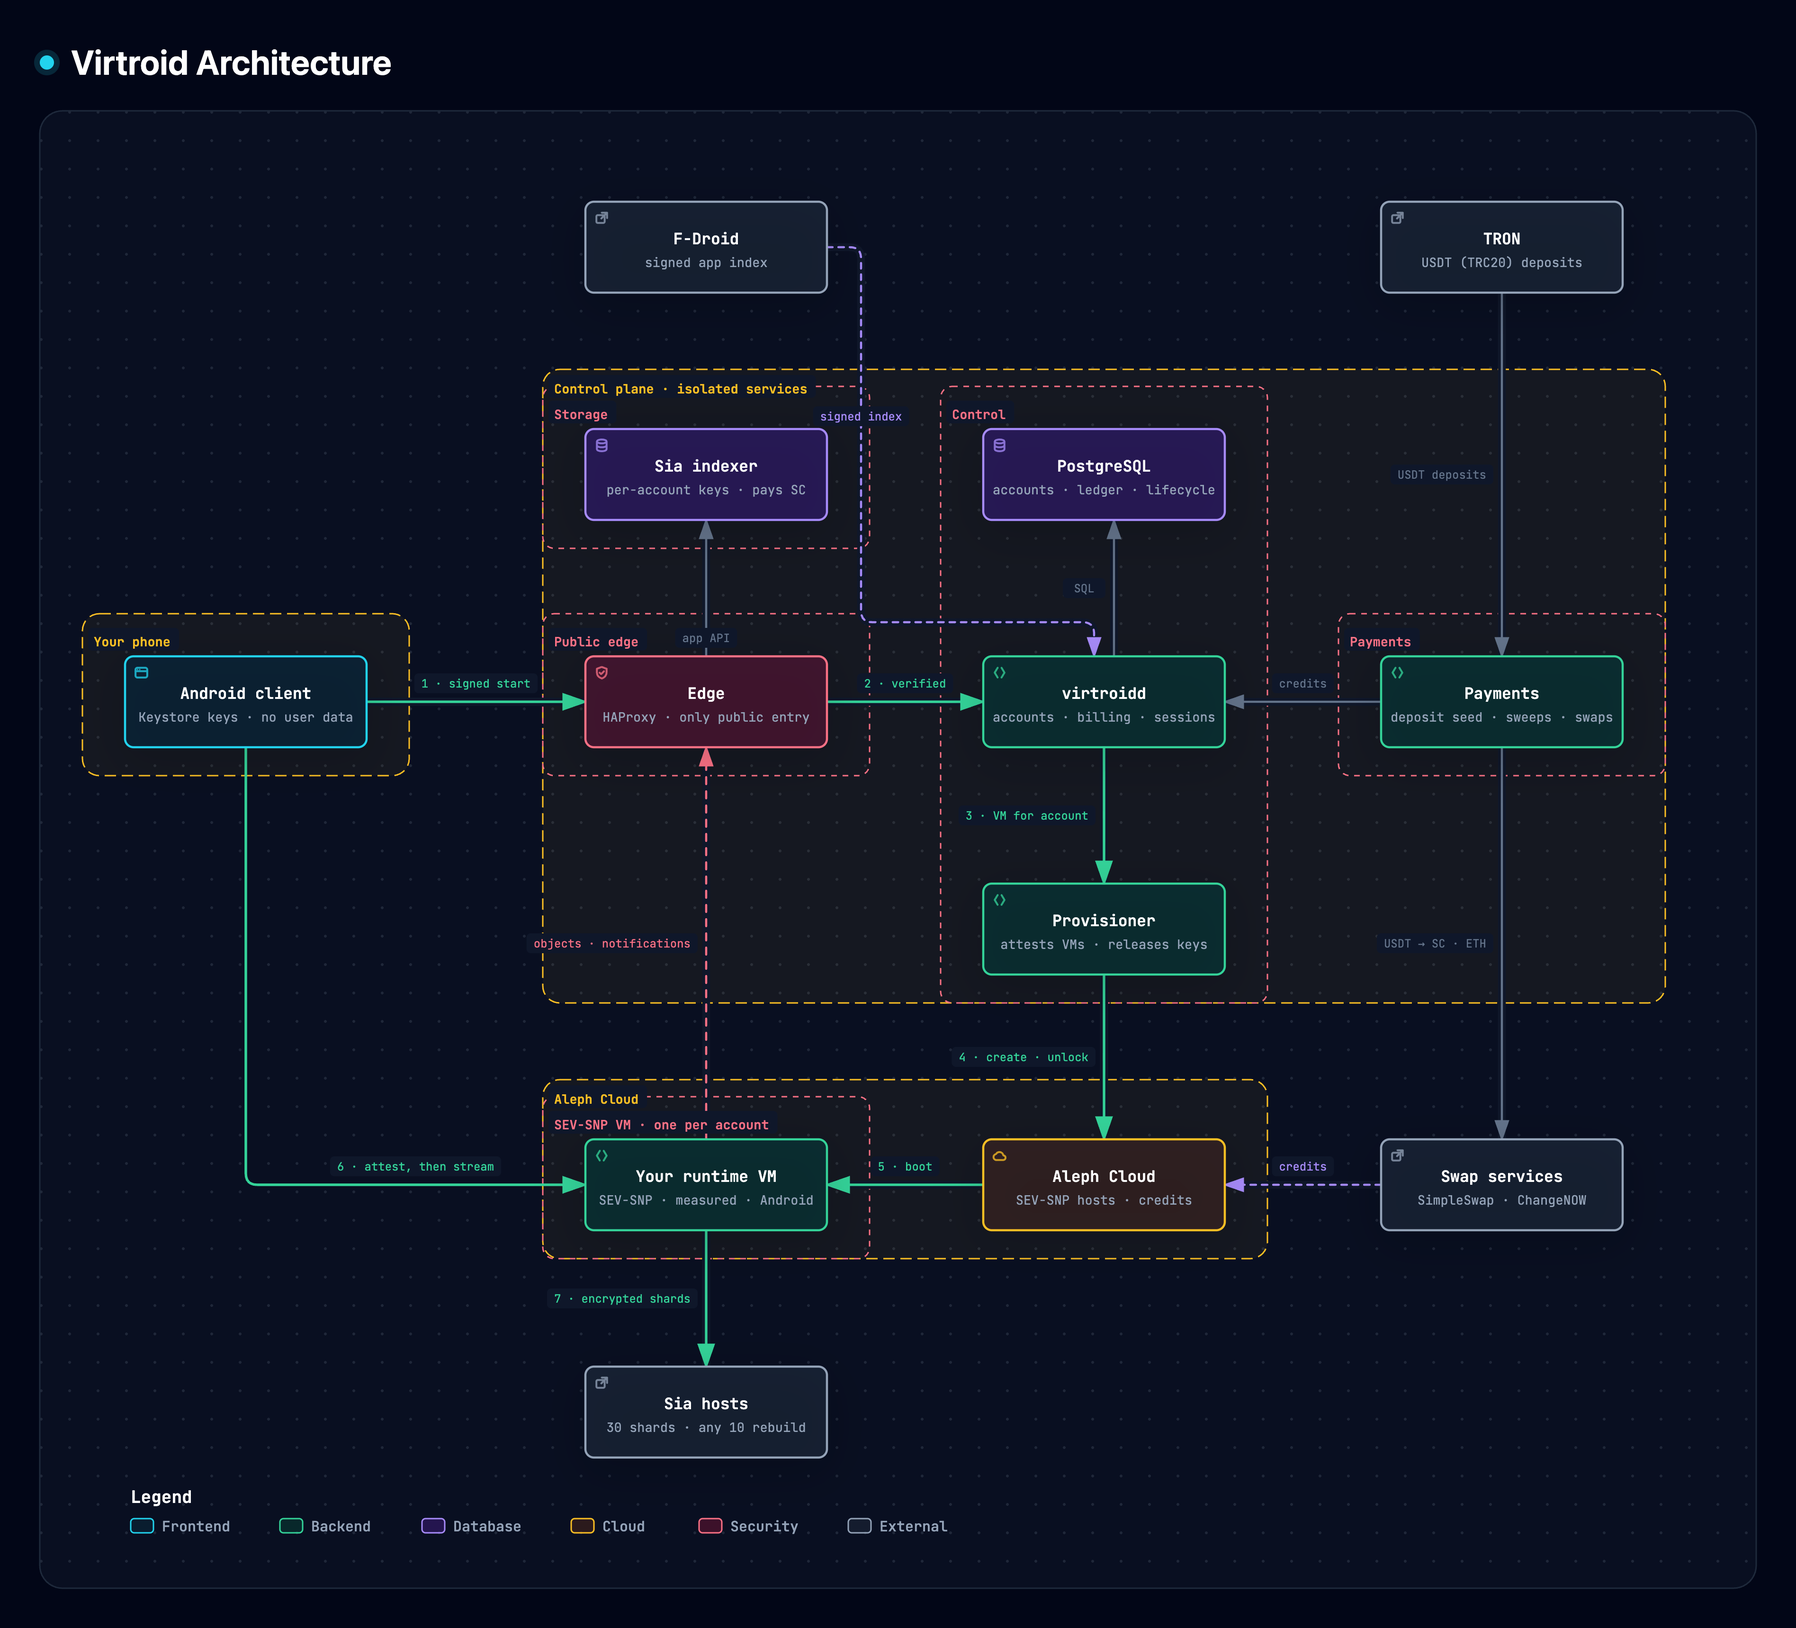
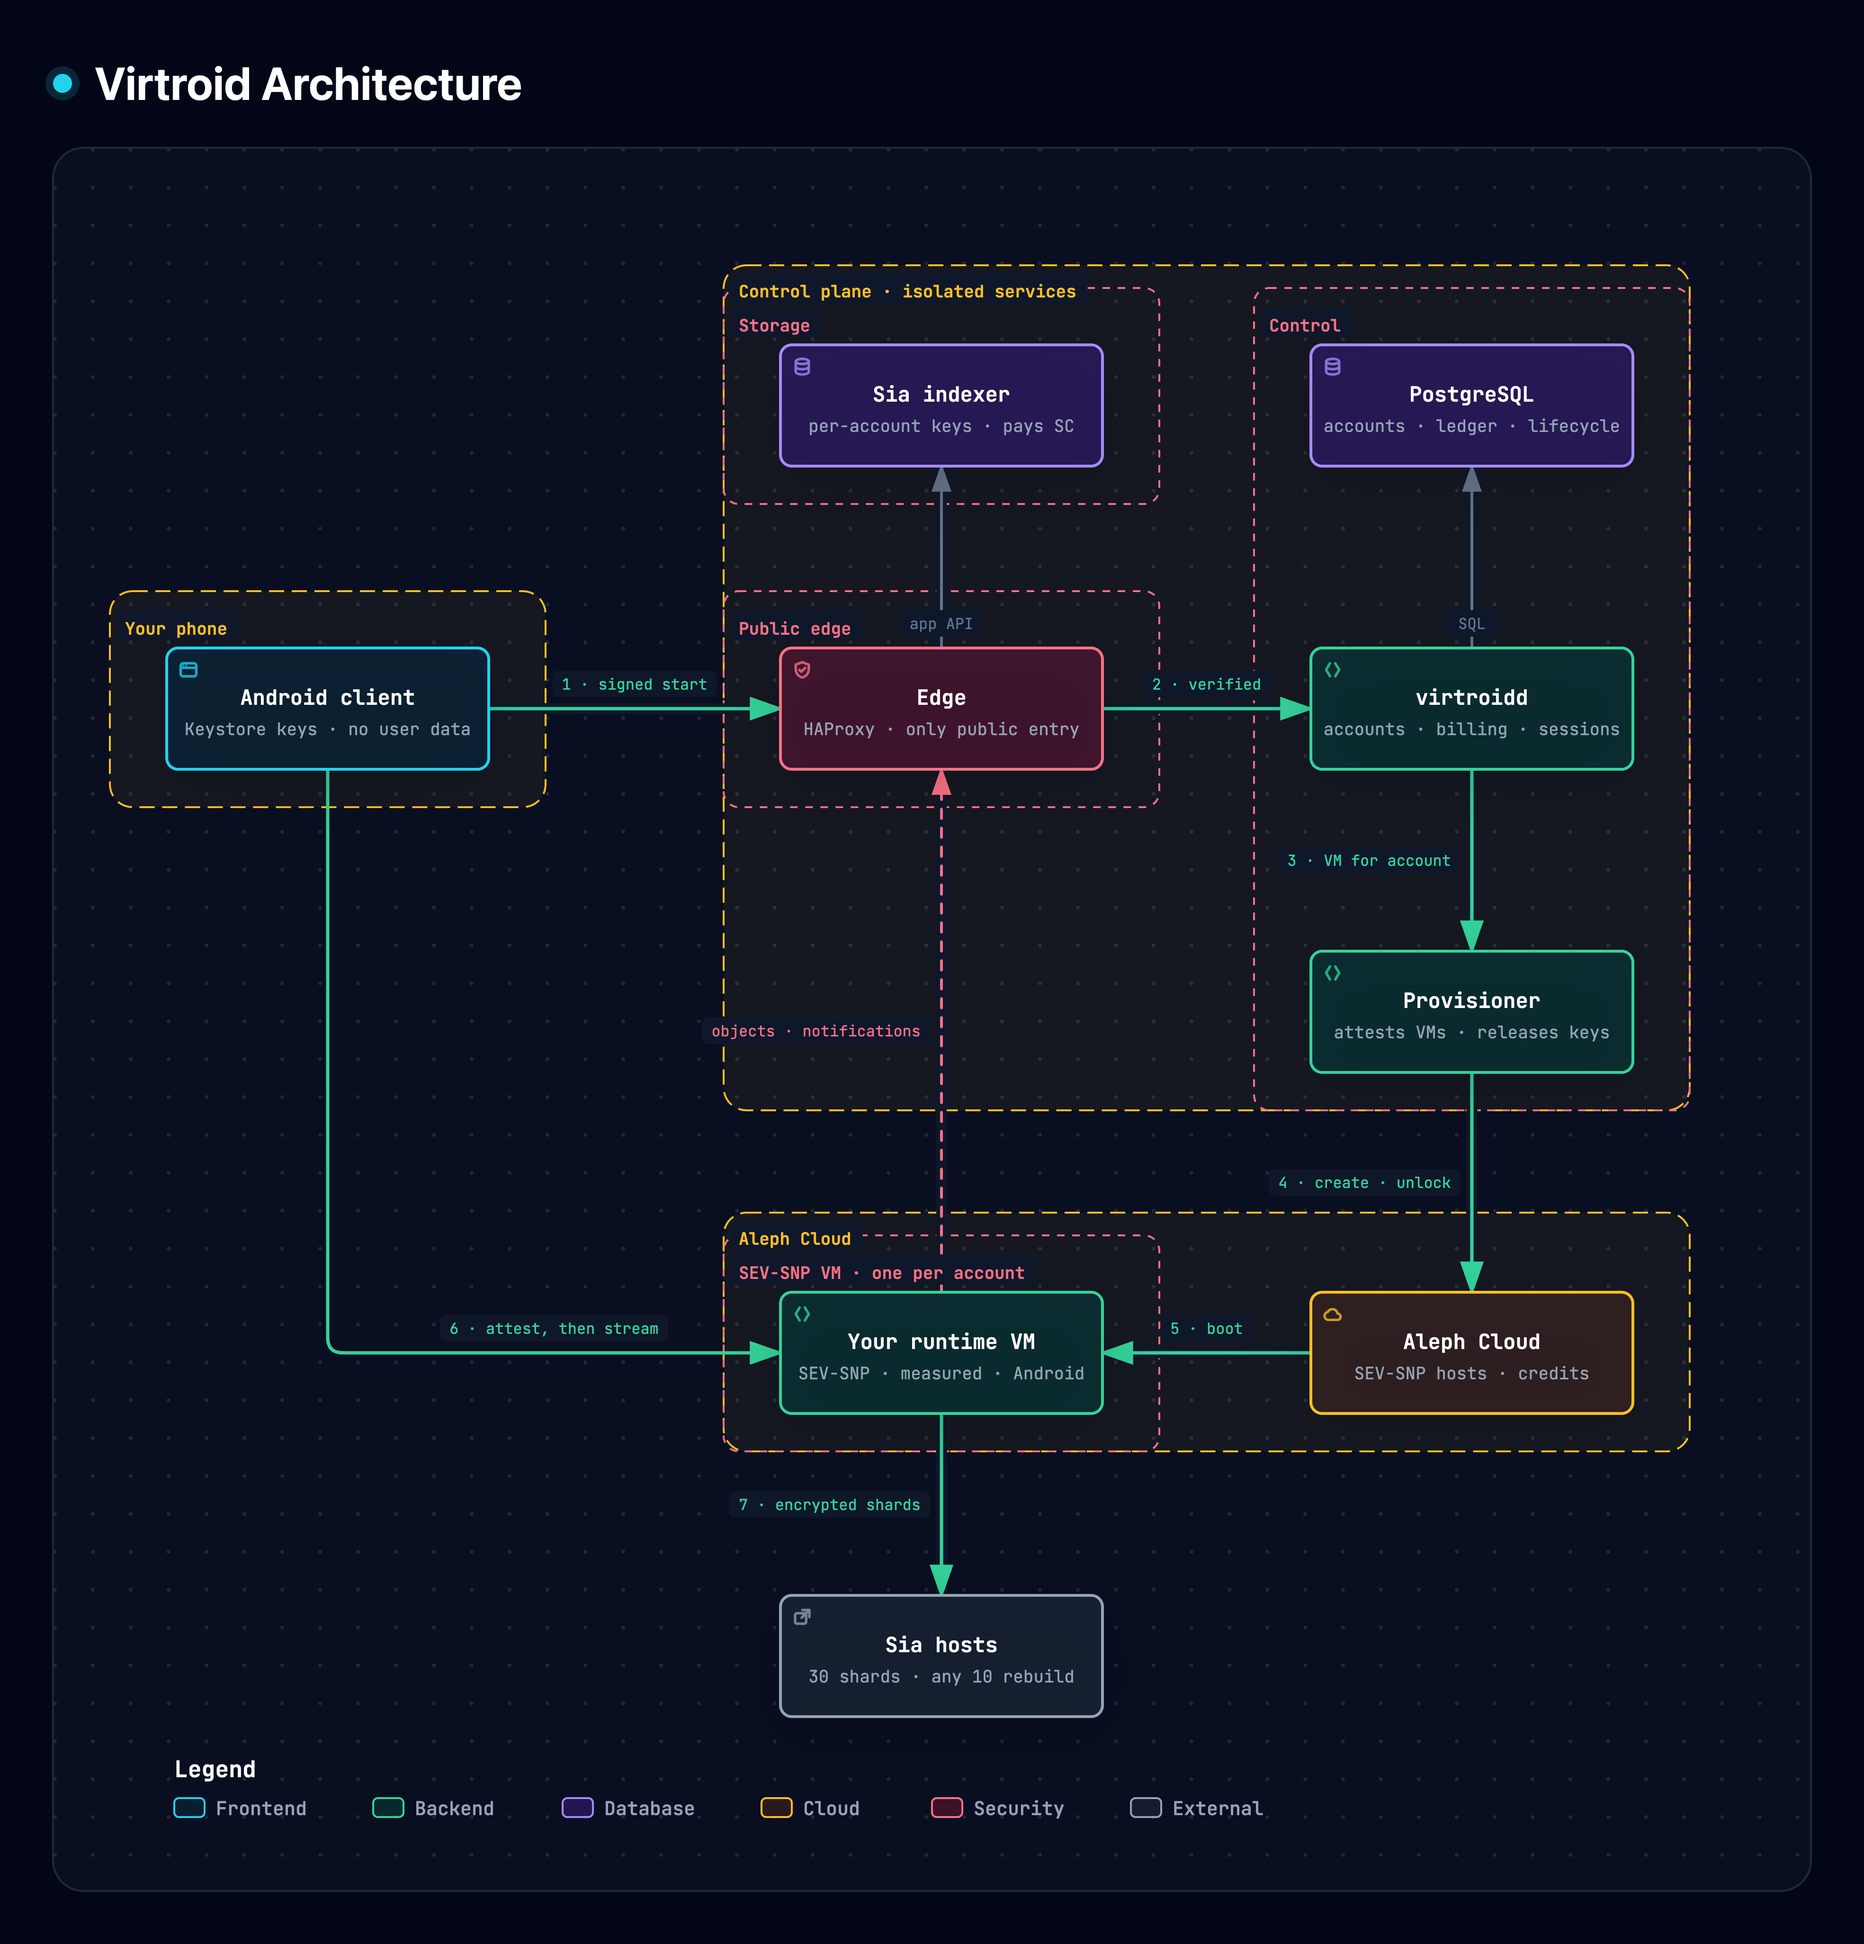
Leave F-Droid and payments out of the architecture diagram

diff --git a/README.md b/README.md
@@ -160,7 +160,7 @@ The diagram's source is [`assets/architecture/virtroid-lifecycle.archify.json`](
 
 <picture>
   <source media="(prefers-color-scheme: dark)" srcset="assets/architecture/virtroid-target-dark.png">
-  <img alt="Virtroid architecture: the phone sends a signed start through the edge; virtroidd checks credit and the provisioner has Aleph Cloud boot the account's own SEV-SNP VM from a measured image, releasing its disk key after attestation; the phone verifies the attestation, then streams from the VM; user data is restored from and saved to independent Sia hosts through the indexer; notifications are relayed to the phone; the app catalogue follows F-Droid's signed index; payments arrive as USDT on TRON and are converted into Siacoin and Aleph credits" src="assets/architecture/virtroid-target-light.png">
+  <img alt="Virtroid architecture: the phone sends a signed start through the edge; virtroidd checks credit and the provisioner has Aleph Cloud boot the account's own SEV-SNP VM from a measured image, releasing its disk key after attestation; the phone verifies the attestation, then streams from the VM; user data is restored from and saved to independent Sia hosts through the indexer; notifications are relayed to the phone" src="assets/architecture/virtroid-target-light.png">
 </picture>
 
 The diagram's source is [`assets/architecture/virtroid-target.archify.json`](assets/architecture/virtroid-target.archify.json).
